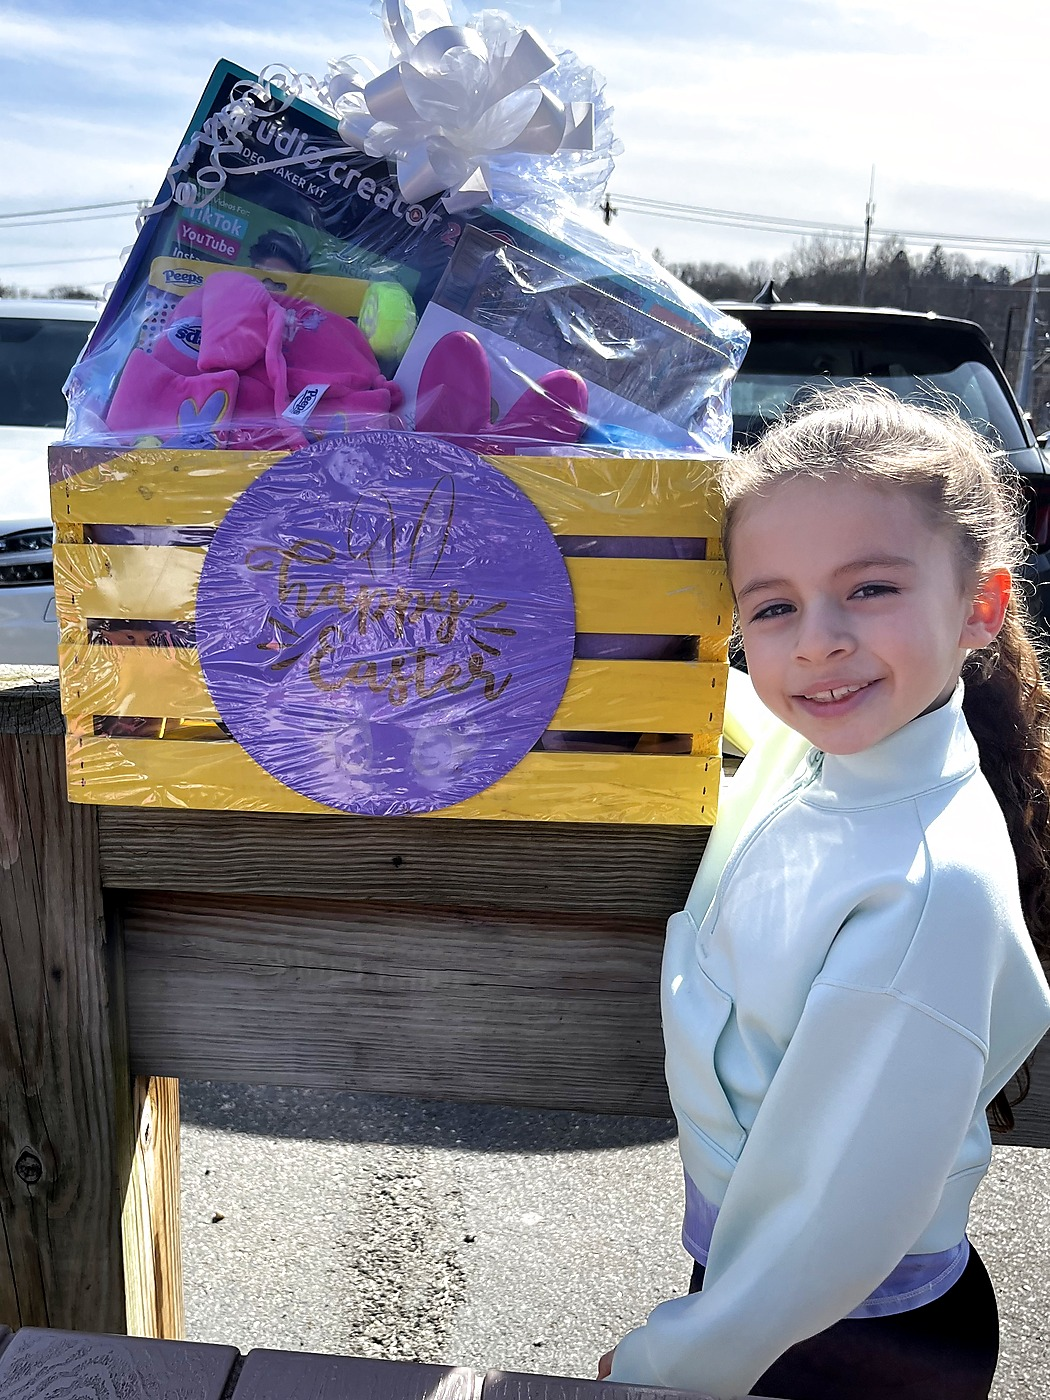
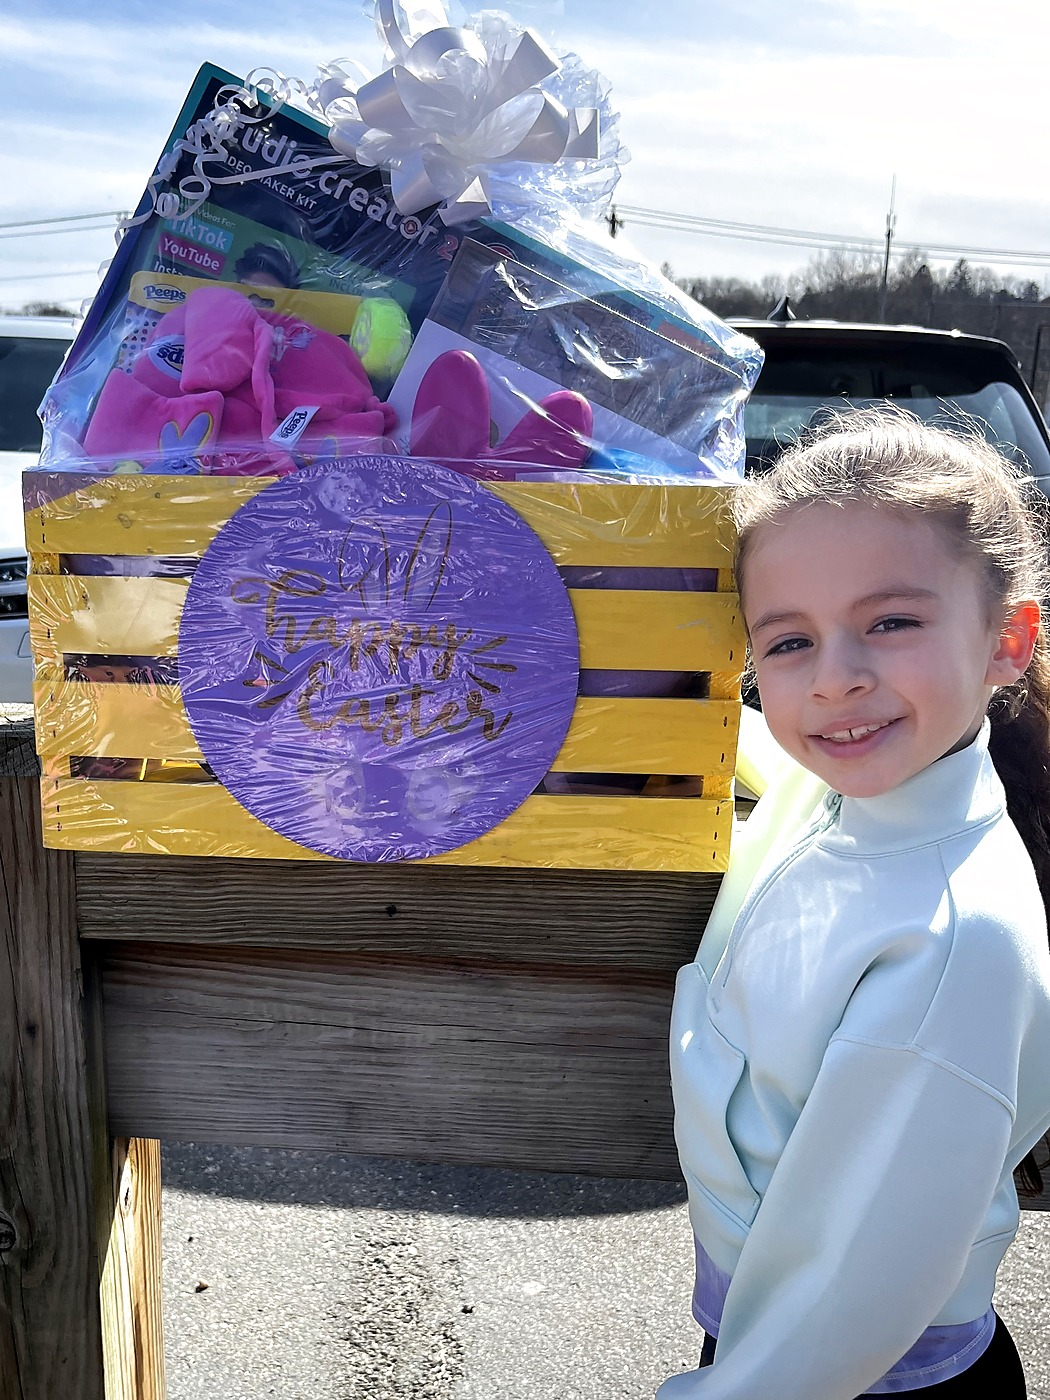
Remove header/mobile Start a Custom Order button sitewide; ensure every page has a bottom custom-request CTA
- Removed nav-cta and mobile-panel Start a Custom Order button from all 6 pages (index, shop, custom-inquiry, social, contact, satisfied-clients)
- social.html: added Start A Custom Request button next to Get In Touch
- contact.html: upgraded existing text link into a full Start A Custom Request button
- satisfied-clients.html: added Start A Custom Request button next to Find Us On Social
- Re-cropped client photo to match owner-provided reference crop, fit to standard 1050x1400 placeholder size

diff --git a/social.html b/social.html
@@ -24,7 +24,6 @@
       <li><a href="contact.html">Contact</a></li>
     </ul>
     <div class="nav-cta">
-      <a href="custom-inquiry.html" class="btn btn-primary btn-sm">Start a Custom Order</a>
       <button class="nav-toggle" aria-label="Menu"><span></span><span></span><span></span></button>
     </div>
   </nav>
@@ -35,7 +34,6 @@
     <a href="satisfied-clients.html">Satisfied Clients</a>
     <a href="social.html">Social</a>
     <a href="contact.html">Contact</a>
-    <a href="custom-inquiry.html" class="btn btn-primary btn-block">Start a Custom Order</a>
   </div>
 </header>
 
@@ -86,7 +84,10 @@
       <span class="eyebrow">Have A Photo To Share?</span>
       <h3 style="margin-bottom:18px;">Tag Us In Your Unboxing</h3>
       <p style="color:var(--gray);max-width:460px;margin:0 auto 26px;">We love reposting client photos &mdash; tag us or send it over and we may feature it here.</p>
-      <a href="contact.html" class="btn btn-outline">Get In Touch</a>
+      <div style="display:flex;gap:16px;justify-content:center;flex-wrap:wrap;">
+        <a href="custom-inquiry.html" class="btn btn-primary">Start A Custom Request</a>
+        <a href="contact.html" class="btn btn-outline">Get In Touch</a>
+      </div>
     </div>
   </div>
 </section>

diff --git a/contact.html b/contact.html
@@ -24,7 +24,6 @@
       <li><a href="contact.html" class="active">Contact</a></li>
     </ul>
     <div class="nav-cta">
-      <a href="custom-inquiry.html" class="btn btn-primary btn-sm">Start a Custom Order</a>
       <button class="nav-toggle" aria-label="Menu"><span></span><span></span><span></span></button>
     </div>
   </nav>
@@ -35,7 +34,6 @@
     <a href="satisfied-clients.html">Satisfied Clients</a>
     <a href="social.html">Social</a>
     <a href="contact.html">Contact</a>
-    <a href="custom-inquiry.html" class="btn btn-primary btn-block">Start a Custom Order</a>
   </div>
 </header>
 
@@ -124,7 +122,7 @@
           <span class="eyebrow">Prefer A Fully Custom Build?</span>
           <h3 style="margin-bottom:12px;">Use Our Dedicated Form</h3>
           <p style="color:var(--gray);">Our custom request form is built for full gift crate design requests &mdash; occasion, theme, budget, and timeline all in one place.</p>
-          <a href="custom-inquiry.html" class="btn-text">Go To Custom Request Form</a>
+          <a href="custom-inquiry.html" class="btn btn-primary btn-block">Start A Custom Request</a>
         </div>
       </div>
 

diff --git a/satisfied-clients.html b/satisfied-clients.html
@@ -139,7 +139,10 @@
   <span class="eyebrow">Want To Be Featured Here?</span>
   <h3 style="margin:10px 0 18px;">Tag Us When Your Crate Arrives</h3>
   <p style="color:var(--gray);max-width:480px;margin:0 auto 26px;">Share your unboxing or a photo with your crate and we may feature it right here.</p>
-  <a href="social.html" class="btn btn-primary">Find Us On Social</a>
+  <div style="display:flex;gap:16px;justify-content:center;flex-wrap:wrap;">
+    <a href="custom-inquiry.html" class="btn btn-primary">Start A Custom Request</a>
+    <a href="social.html" class="btn btn-outline">Find Us On Social</a>
+  </div>
 </div>
 
 <footer class="site-footer">

diff --git a/custom-inquiry.html b/custom-inquiry.html
@@ -24,7 +24,6 @@
       <li><a href="contact.html">Contact</a></li>
     </ul>
     <div class="nav-cta">
-      <a href="custom-inquiry.html" class="btn btn-primary btn-sm">Start a Custom Order</a>
       <button class="nav-toggle" aria-label="Menu"><span></span><span></span><span></span></button>
     </div>
   </nav>
@@ -35,7 +34,6 @@
     <a href="satisfied-clients.html">Satisfied Clients</a>
     <a href="social.html">Social</a>
     <a href="contact.html">Contact</a>
-    <a href="custom-inquiry.html" class="btn btn-primary btn-block">Start a Custom Order</a>
   </div>
 </header>
 

diff --git a/index.html b/index.html
@@ -24,7 +24,6 @@
       <li><a href="contact.html">Contact</a></li>
     </ul>
     <div class="nav-cta">
-      <a href="custom-inquiry.html" class="btn btn-primary btn-sm">Start a Custom Order</a>
       <button class="nav-toggle" aria-label="Menu"><span></span><span></span><span></span></button>
     </div>
   </nav>
@@ -35,7 +34,6 @@
     <a href="satisfied-clients.html">Satisfied Clients</a>
     <a href="social.html">Social</a>
     <a href="contact.html">Contact</a>
-    <a href="custom-inquiry.html" class="btn btn-primary btn-block">Start a Custom Order</a>
   </div>
 </header>
 

diff --git a/shop.html b/shop.html
@@ -24,7 +24,6 @@
       <li><a href="contact.html">Contact</a></li>
     </ul>
     <div class="nav-cta">
-      <a href="custom-inquiry.html" class="btn btn-primary btn-sm">Start a Custom Order</a>
       <button class="nav-toggle" aria-label="Menu"><span></span><span></span><span></span></button>
     </div>
   </nav>
@@ -35,7 +34,6 @@
     <a href="satisfied-clients.html">Satisfied Clients</a>
     <a href="social.html">Social</a>
     <a href="contact.html">Contact</a>
-    <a href="custom-inquiry.html" class="btn btn-primary btn-block">Start a Custom Order</a>
   </div>
 </header>
 
